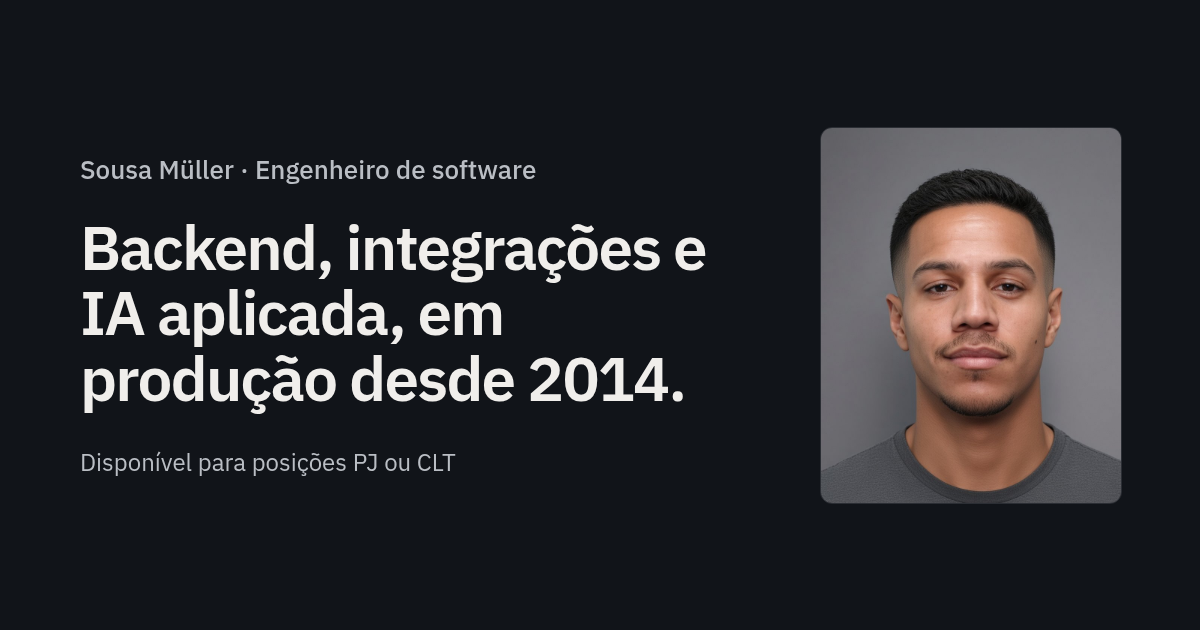
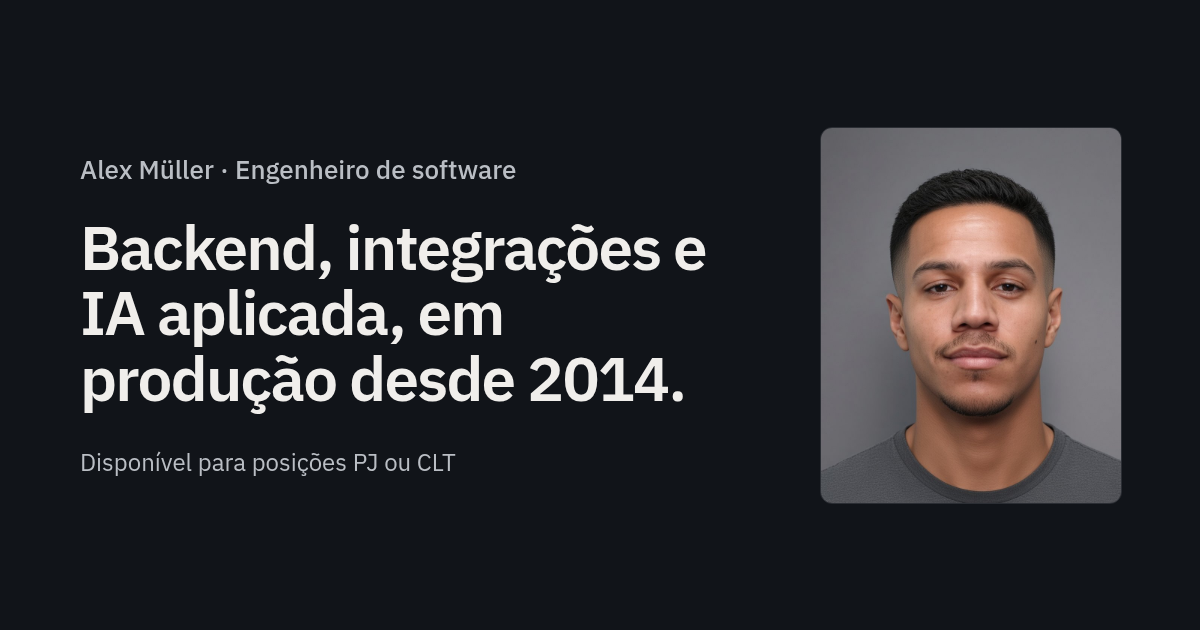
Troca o nome de exibição para Alex Müller
Atualiza o nome em textos, metadados, mensagem do WhatsApp, favicon (AM)
e imagem de compartilhamento. Endereços e perfis não mudam.

Changed region(s): [[0.0617, 0.2413, 0.4317, 0.3016]]

diff --git a/assets/js/data.js b/assets/js/data.js
@@ -1,7 +1,7 @@
 /* =====================================================================
    CONTEÚDO DO SITE: edite apenas este arquivo para personalizar.
    ---------------------------------------------------------------------
-   • Fonte: currículo de Sousa Müller (set/2026) e análise dos projetos.
+   • Fonte: currículo de Alex Müller (set/2026) e análise dos projetos.
    • Para ocultar uma seção, defina false em `sections`.
    • Imagens: coloque arquivos em assets/images/ e informe o caminho
      relativo (ex.: "assets/images/retrato.jpg"). Campos vazios exibem
@@ -30,9 +30,9 @@ window.SITE = {
   },
 
   profile: {
-    name: "Sousa Müller",
-    shortName: "Sousa",
-    initials: "SM",
+    name: "Alex Müller",
+    shortName: "Alex",
+    initials: "AM",
     role: "Engenheiro de software",
     location: "Jundiaí, SP · trabalho remoto",
     availability: "Disponível para posições PJ ou CLT",
@@ -50,7 +50,7 @@ window.SITE = {
       { value: "~230 mil", label: "cadastros saneados em produção" },
     ],
     photo: "assets/images/retrato.jpg", // proporção 4:5
-    photoAlt: "Retrato de Sousa Müller",
+    photoAlt: "Retrato de Alex Müller",
   },
 
   nav: [
@@ -65,7 +65,7 @@ window.SITE = {
     title: "Sobre mim",
     lede: "Engenheiro de software desde 2014, hoje com foco em backend, integrações e IA aplicada.",
     paragraphs: [
-      "Sou Sousa Müller, engenheiro de software. Desde 2014 construo sistemas em produção: sites e plataformas de ensino, produtos de educação, funcionalidades do Gshow e do Receitas na Globo e o fluxo de empréstimo consignado no app do Itaú Unibanco.",
+      "Sou Alex Müller, engenheiro de software. Desde 2014 construo sistemas em produção: sites e plataformas de ensino, produtos de educação, funcionalidades do Gshow e do Receitas na Globo e o fluxo de empréstimo consignado no app do Itaú Unibanco.",
       "Na Arcotech, de 2025 a setembro de 2026, fui lead técnico em 4 dos 5 projetos do último ciclo, com integrações, integridade de dados e ferramentas de IA para o time. Em paralelo, entreguei projetos para clientes diretos, como a integração entre plataforma de projetos e ERP do Grupo Soluto e o site de pré-venda do Clutch Shooter.",
       "Gosto de trabalhar perto do produto: entender o problema, propor uma solução do tamanho certo, entregar em partes pequenas e deixar o caminho documentado para quem vem depois. Procuro uma posição, PJ ou CLT, em que eu faça isso dentro de um time.",
     ],
@@ -442,7 +442,7 @@ window.SITE = {
     email: "amuller.sousa@gmail.com",
     whatsapp: {
       number: "5519987114450", // formato internacional, só números
-      message: "Olá, Sousa! Vi seu portfólio e gostaria de conversar sobre uma vaga.",
+      message: "Olá, Alex! Vi seu portfólio e gostaria de conversar sobre uma vaga.",
       isExample: false,
     },
     subjects: ["Vaga CLT", "Vaga PJ", "Projeto pontual", "Outro assunto"],

diff --git a/index.html b/index.html
@@ -3,12 +3,12 @@
 <head>
   <meta charset="utf-8">
   <meta name="viewport" content="width=device-width, initial-scale=1">
-  <title>Sousa Müller · Engenheiro de software</title>
-  <meta name="description" content="Sousa Müller, engenheiro de software: backend, integrações entre sistemas, nuvem AWS e IA aplicada. Mais de 10 anos de experiência, com passagens por Itaú Unibanco e Globo. Disponível para posições PJ ou CLT.">
+  <title>Alex Müller · Engenheiro de software</title>
+  <meta name="description" content="Alex Müller, engenheiro de software: backend, integrações entre sistemas, nuvem AWS e IA aplicada. Mais de 10 anos de experiência, com passagens por Itaú Unibanco e Globo. Disponível para posições PJ ou CLT.">
   <meta name="theme-color" content="#16181d">
   <meta property="og:type" content="website">
   <meta property="og:locale" content="pt_BR">
-  <meta property="og:title" content="Sousa Müller · Engenheiro de software">
+  <meta property="og:title" content="Alex Müller · Engenheiro de software">
   <meta property="og:description" content="Backend, integrações e IA aplicada. Disponível para posições PJ ou CLT.">
   <meta property="og:url" content="https://sousa-muller.github.io/">
   <meta property="og:image" content="https://sousa-muller.github.io/assets/images/og-image.png">
@@ -27,7 +27,7 @@
   <header class="site-header" id="site-header">
     <div class="container header-inner">
       <a class="brand" href="#inicio" aria-label="Início">
-        <span class="brand-name" data-bind="name">Sousa Müller</span>
+        <span class="brand-name" data-bind="name">Alex Müller</span>
       </a>
       <nav class="nav" aria-label="Principal">
         <ul class="nav-list" id="nav-list"></ul>
@@ -49,7 +49,7 @@
     <section class="hero" id="inicio" aria-labelledby="hero-title">
       <div class="container hero-grid">
         <div class="hero-copy" id="hero-copy">
-          <p class="hero-kicker"><span data-bind="name">Sousa Müller</span> · <span data-bind="role">Engenheiro de software</span></p>
+          <p class="hero-kicker"><span data-bind="name">Alex Müller</span> · <span data-bind="role">Engenheiro de software</span></p>
           <h1 class="hero-title" id="hero-title">Backend, integrações e IA aplicada, em produção desde 2014.</h1>
           <p class="hero-sub" data-bind="subheadline">Engenheiro de software com mais de 10 anos de experiência. Disponível para posições PJ ou CLT.</p>
           <div class="hero-actions">
@@ -60,7 +60,7 @@
         </div>
 
         <figure class="hero-photo">
-          <img src="assets/images/retrato.jpg" alt="Retrato de Sousa Müller" width="800" height="1000" decoding="async">
+          <img src="assets/images/retrato.jpg" alt="Retrato de Alex Müller" width="800" height="1000" decoding="async">
         </figure>
 
         <dl class="hero-stats" id="hero-stats"></dl>

diff --git a/assets/css/styles.css b/assets/css/styles.css
@@ -1,5 +1,5 @@
 /* =====================================================================
-   Sousa Müller · Portfólio
+   Alex Müller · Portfólio
    1. Tokens  2. Base  3. Layout  4. Components  5. Sections
    6. Project covers  7. Dialog  8. Motion  9. Responsive
    ===================================================================== */

diff --git a/README.md b/README.md
@@ -1,8 +1,8 @@
-# Portfólio · Sousa Müller
+# Portfólio · Alex Müller
 
 Site estático de portfólio profissional, voltado a empresas que contratam engenheiros de software (PJ ou CLT). HTML, CSS e JavaScript puro — sem build, sem backend. Pronto para o GitHub Pages.
 
-Publicado em **https://sousa-muller.github.io/**. O conteúdo vem do currículo de Sousa Müller e da análise dos projetos reais. Estilo do texto: tom de profissional buscando uma posição PJ ou CLT, sem travessão.
+Publicado em **https://sousa-muller.github.io/**. O conteúdo vem do currículo de Alex Müller e da análise dos projetos reais. Estilo do texto: tom de profissional buscando uma posição PJ ou CLT, sem travessão.
 
 ## Estrutura
 
